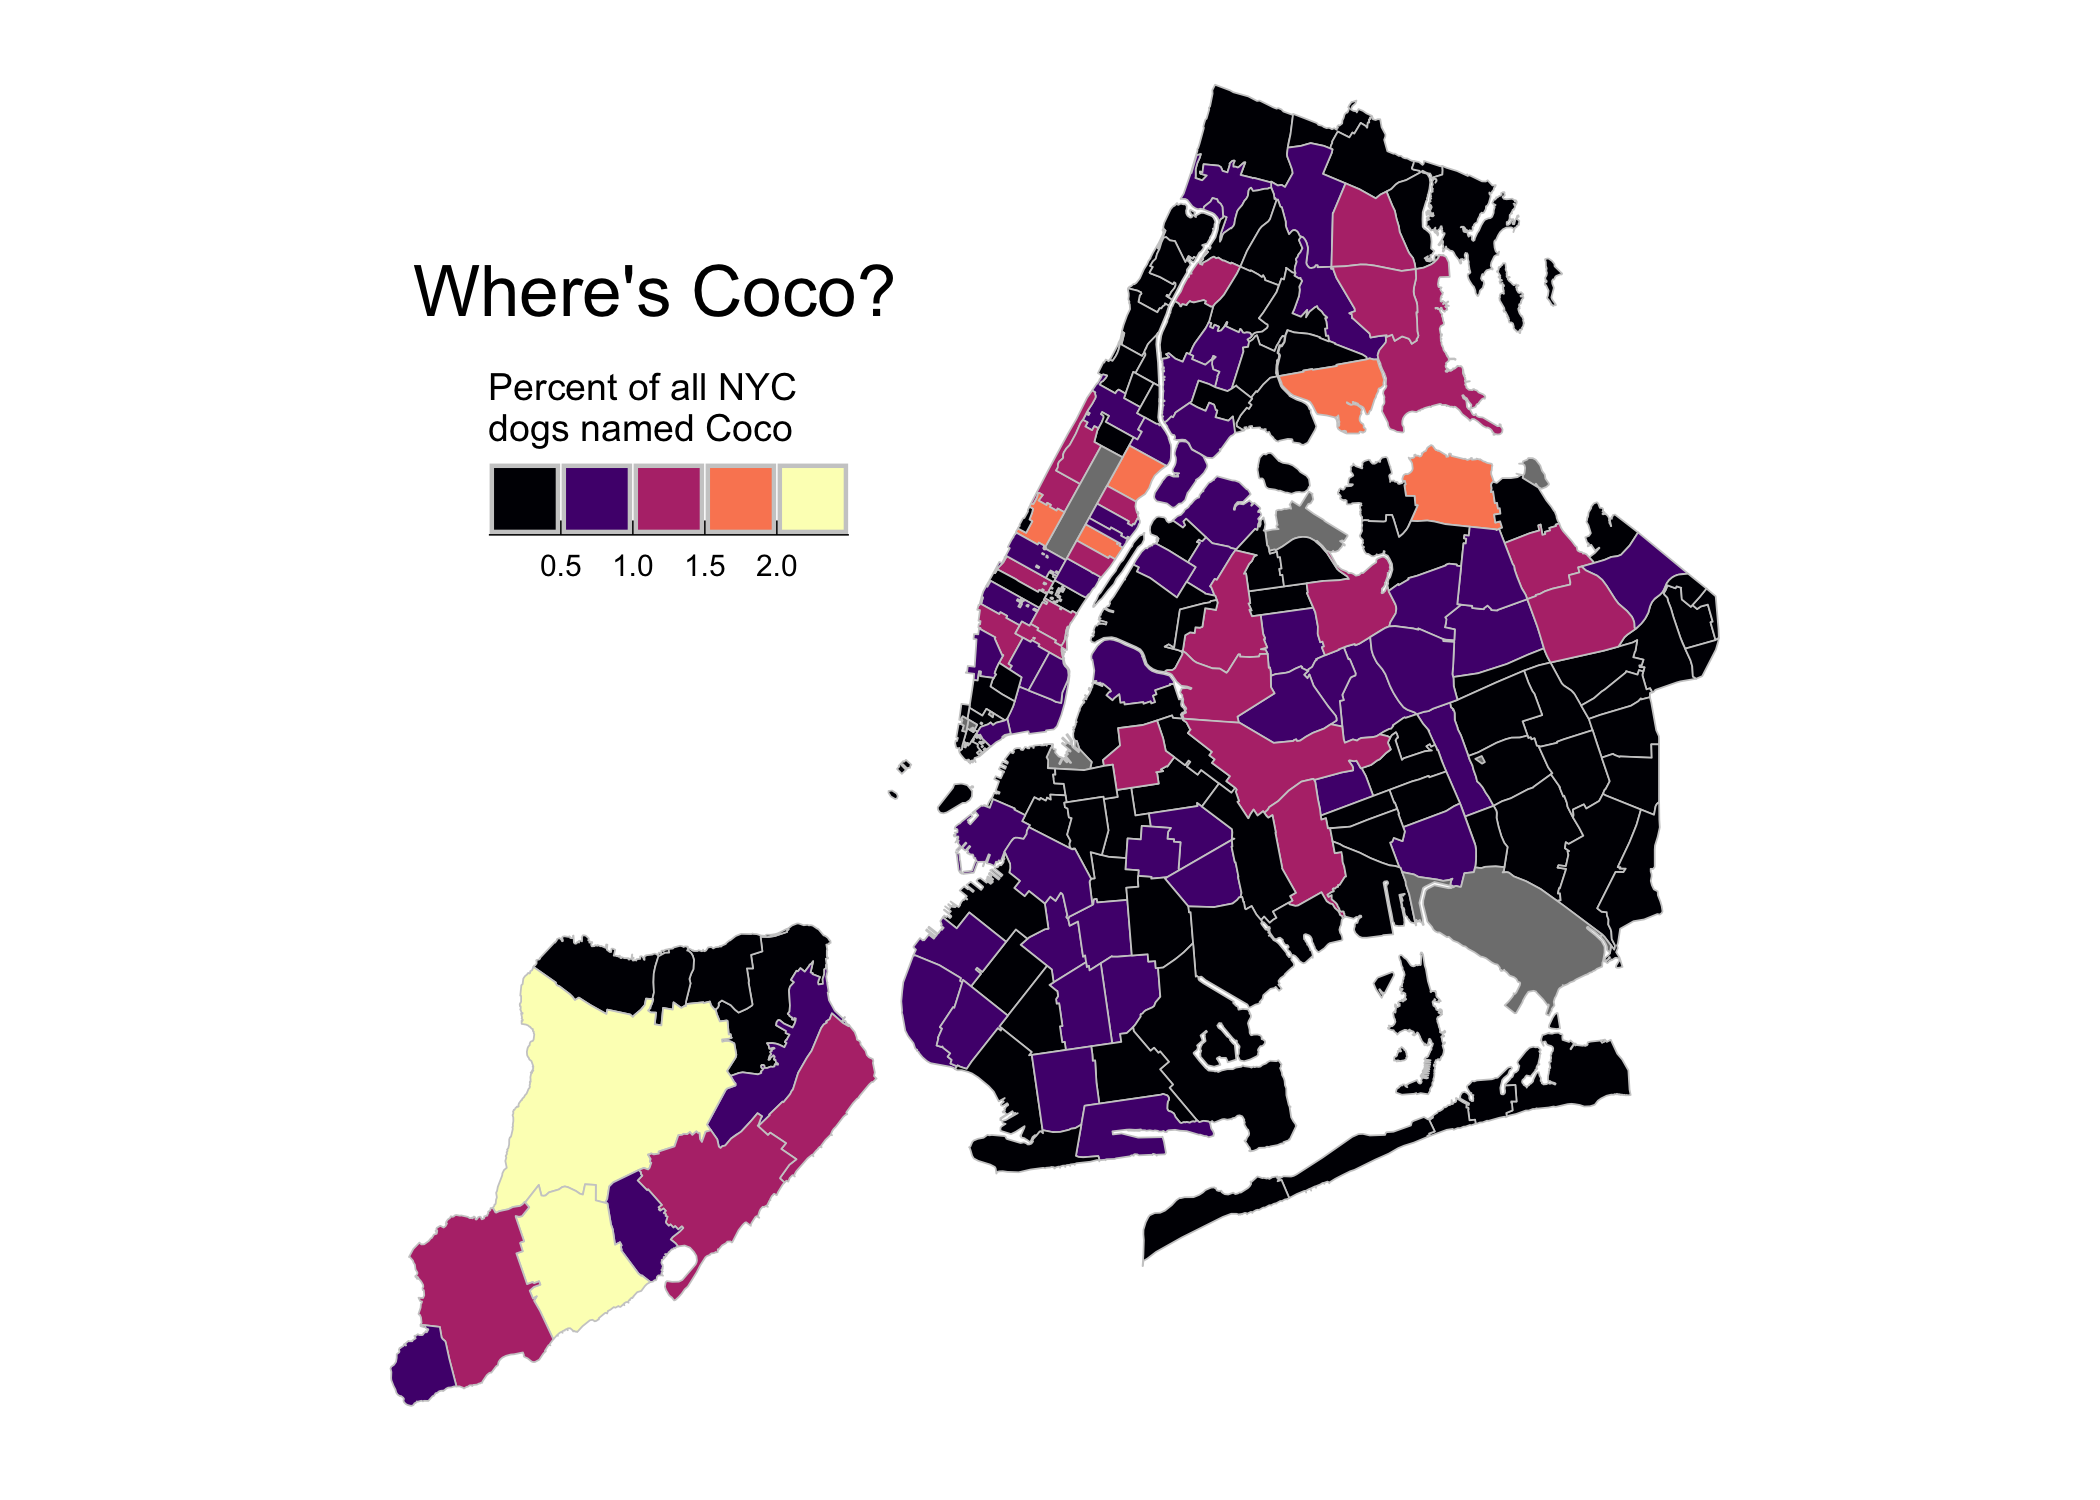
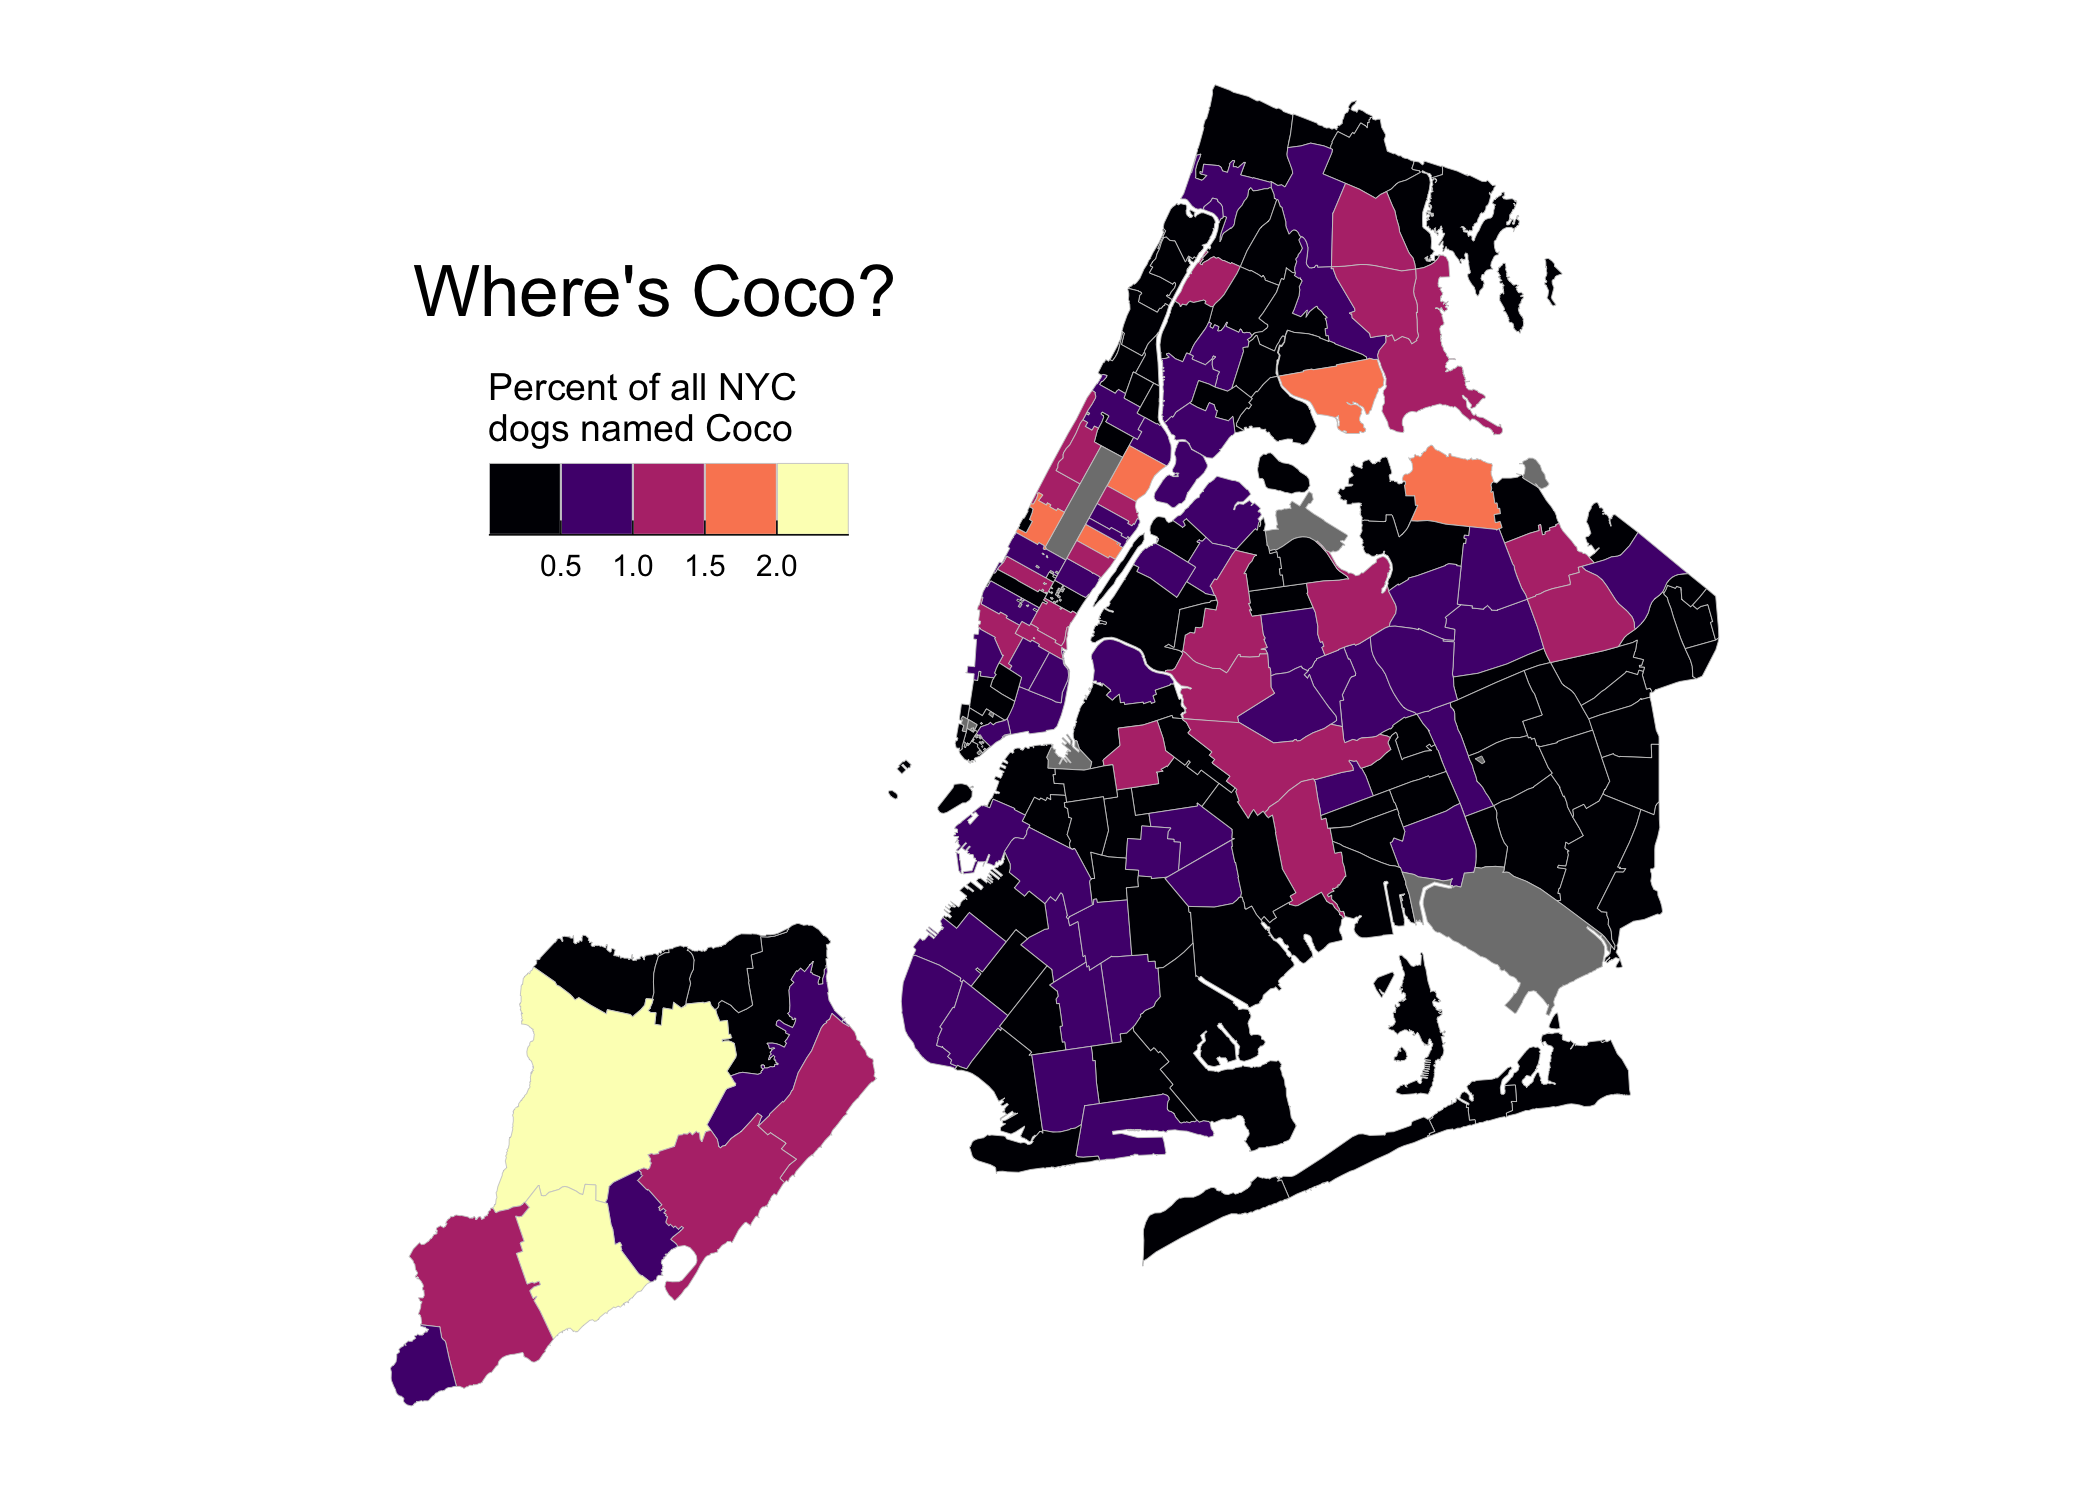
Update readme

diff --git a/README.md b/README.md
@@ -88,15 +88,15 @@ dogs with a particular name live:
 boro_names <- c("Manhattan", "Queens", "Brooklyn", 
                 "Bronx", "Staten Island")
 
-nyc_coco <- nyc_license %>%
+nyc_coco <- nyc_license |>
   filter(extract_year == 2016, 
-         borough %in% boro_names) %>% 
-  group_by(zip_code, animal_name) %>% 
-  tally() %>%
-  ungroup() %>%
+         borough %in% boro_names) |> 
+  group_by(zip_code, animal_name) |> 
+  tally() |>
+  ungroup() |>
   complete(zip_code, animal_name, 
-           fill = list(n = 0)) %>% 
-  filter(animal_name == "Coco") %>% 
+           fill = list(n = 0)) |> 
+  filter(animal_name == "Coco") |> 
   mutate(freq = n / sum(n),
            pct = round(freq*100, 2)) 
 
@@ -139,8 +139,8 @@ theme_nymap <- function(base_size=9, base_family="") {
         )
 }
 
-coco_map %>% ggplot(mapping = aes(fill = pct)) +
-    geom_sf(color = "gray80", size = 0.1) +
+coco_map |> ggplot(mapping = aes(fill = pct)) +
+    geom_sf(color = "gray80", linewidth = 0.1) +
     scale_fill_binned(guide = "bins", type = "viridis", option = "A") +
     labs(fill = "Percent of all NYC\ndogs named Coco") +
   annotate(geom = "text", x = -74.145, y = 40.85, 
